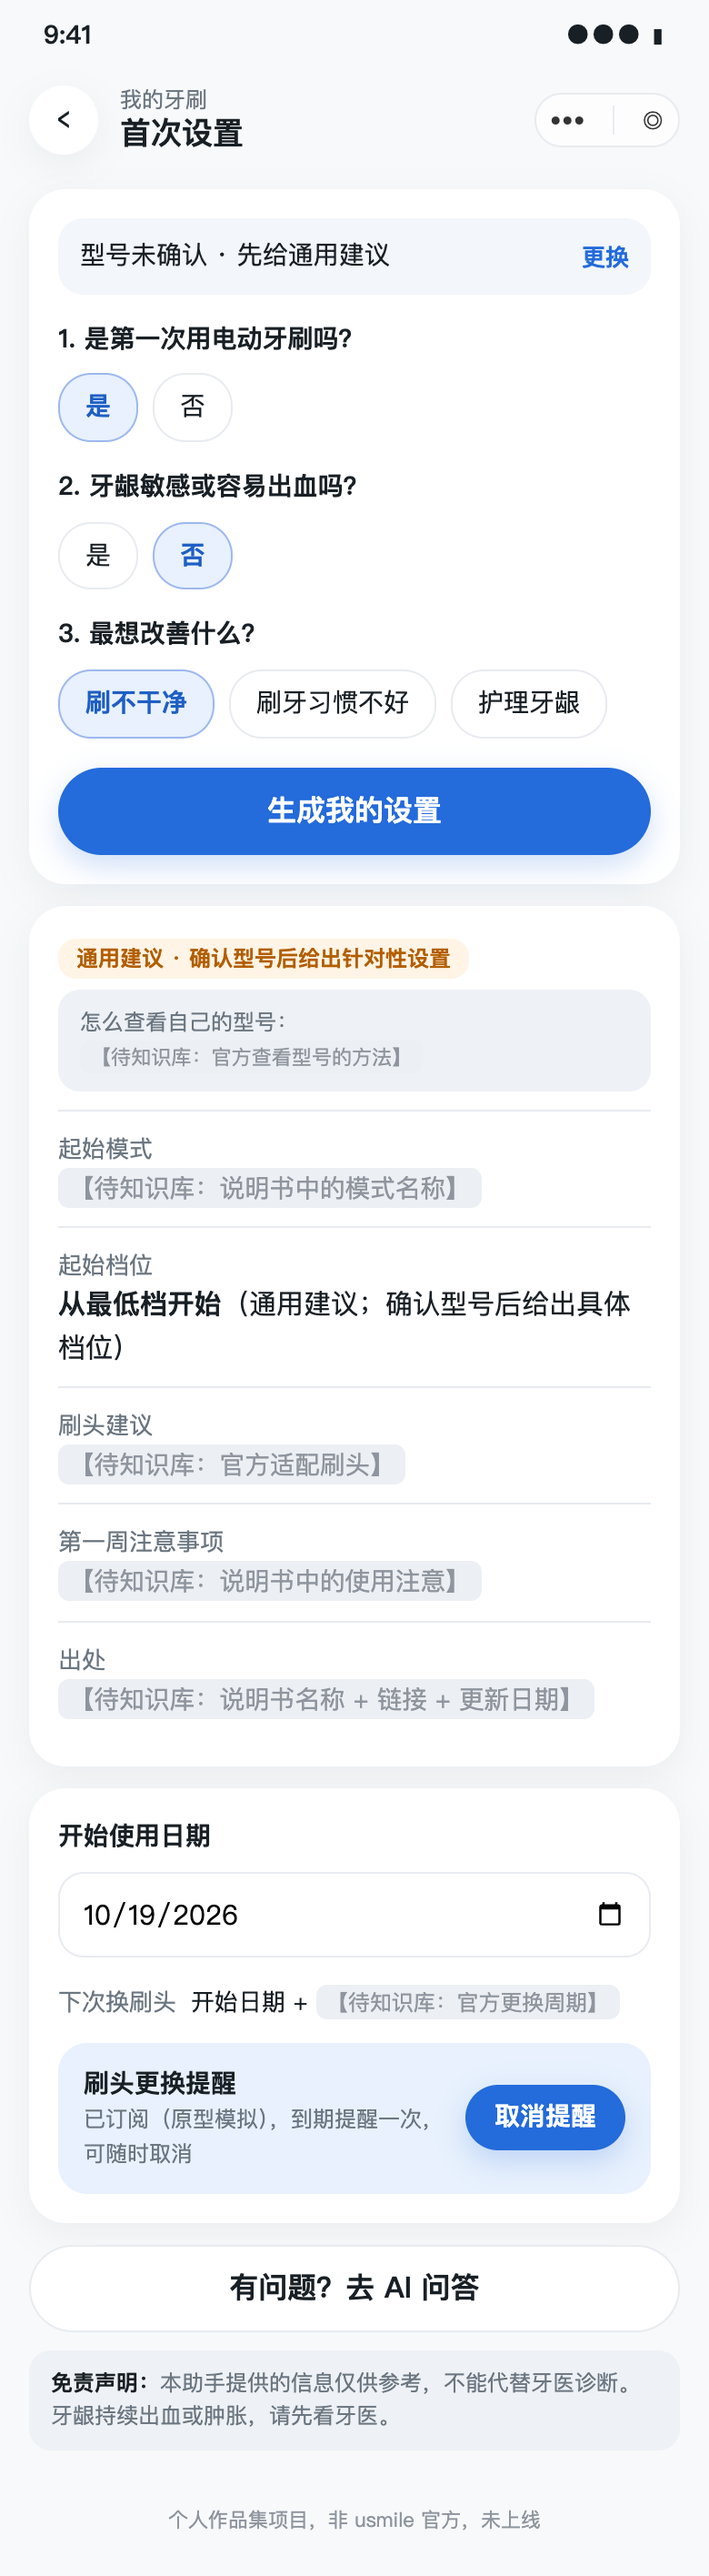
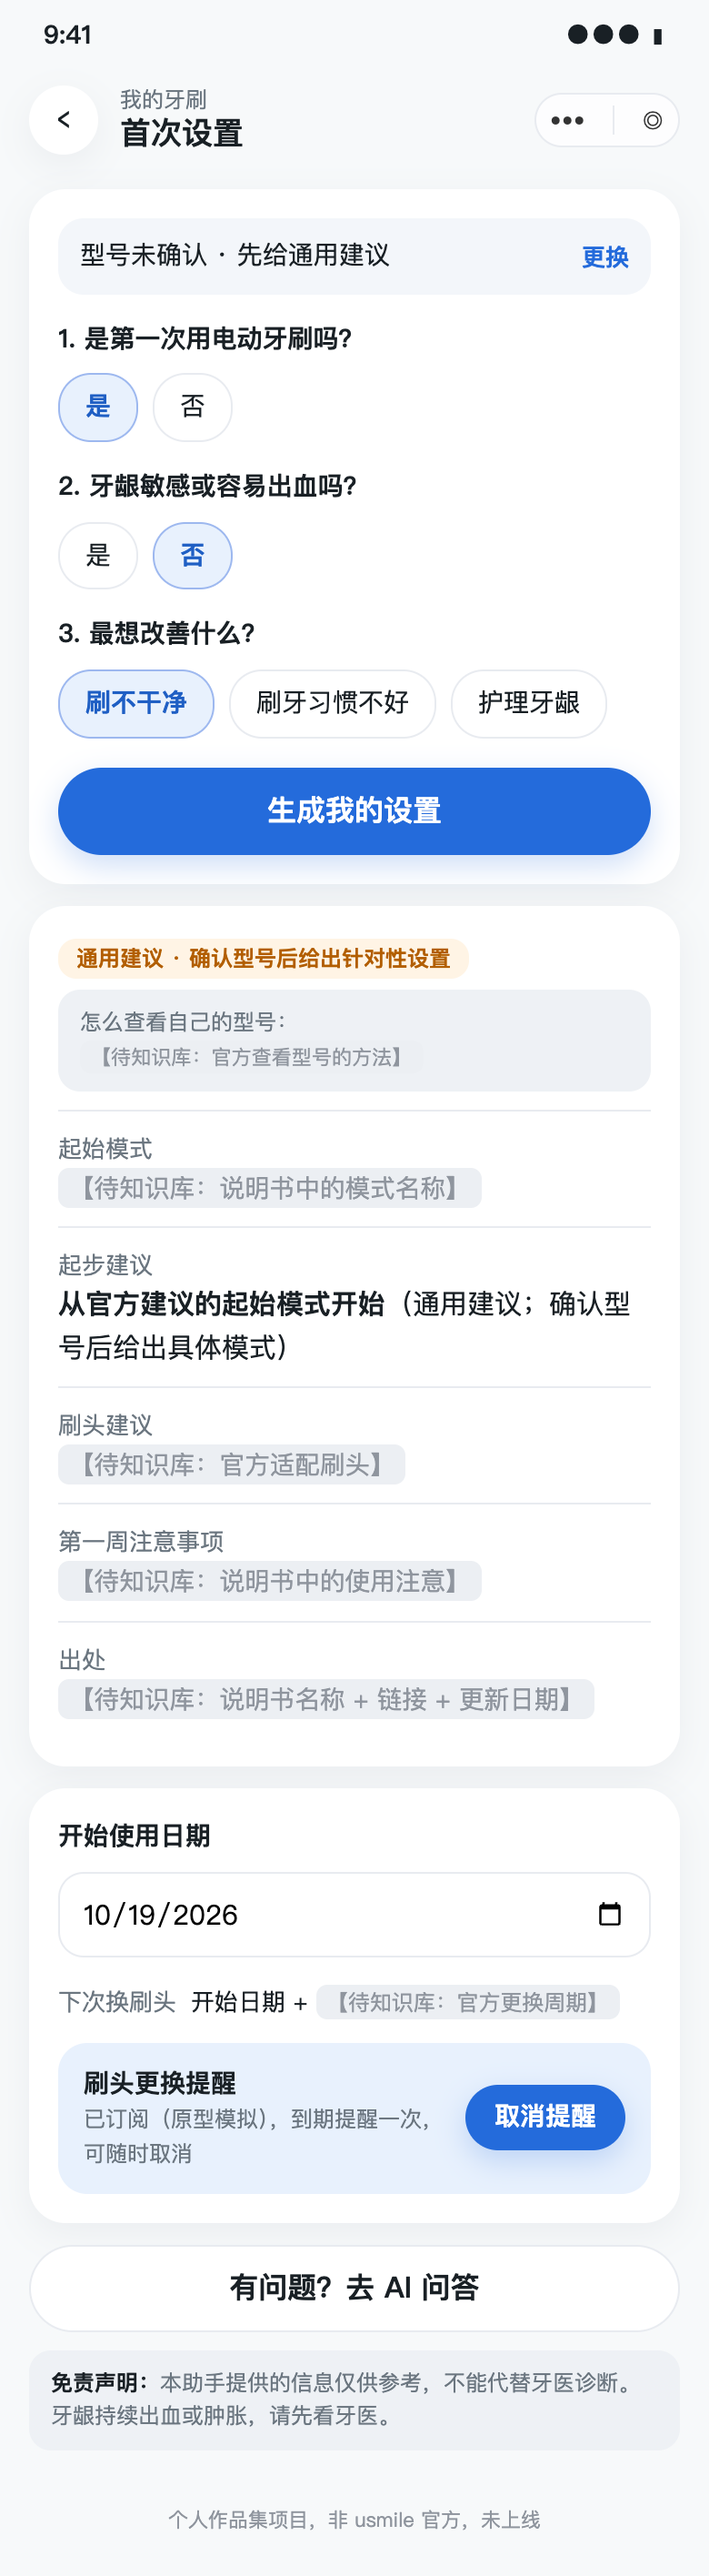
原型同步 D39（4 个价位段且只能选、最低档改为官方起始模式），准备用 GitHub Pages 在线查看；重跑截图

Changed region(s): [[0.0923, 0.4661, 0.8923, 0.5282]]

diff --git a/prototype/index.html b/prototype/index.html
@@ -324,7 +324,7 @@ input[type=date]{padding:10px 12px;border:1.5px solid var(--line);border-radius:
           <button class="btn ghost" id="qPrev">上一题</button>
           <button class="btn" id="qNext">下一题</button>
         </div>
-        <div class="small" id="qReq" style="margin-top:8px;color:var(--warn);display:none">预算为必答题，请先选择或填写</div>
+        <div class="small" id="qReq" style="margin-top:8px;color:var(--warn);display:none">预算为必答题，请先选择</div>
       </div>
       <div class="foot">个人作品集项目，非 usmile 官方，未上线</div>
     </section>
@@ -468,7 +468,7 @@ input[type=date]{padding:10px 12px;border:1.5px solid var(--line);border-radius:
             <div id="generalTag"></div>
             <div id="unsureHelp" class="disclaimer" style="display:none;margin:0 0 10px">怎么查看自己的型号：<span class="ph">【待知识库：官方查看型号的方法】</span></div>
             <div class="item"><div class="k">起始模式</div><div class="ph">【待知识库：说明书中的模式名称】</div></div>
-            <div class="item"><div class="k">起始档位</div><div id="levelText"></div></div>
+            <div class="item"><div class="k">起步建议</div><div id="levelText"></div></div>
             <div class="item"><div class="k">刷头建议</div><div class="ph">【待知识库：官方适配刷头】</div></div>
             <div class="item"><div class="k">第一周注意事项</div><div class="ph">【待知识库：说明书中的使用注意】</div></div>
             <div class="item"><div class="k">出处</div><div class="ph">【待知识库：说明书名称 + 链接 + 更新日期】</div></div>
@@ -624,8 +624,8 @@ input[type=date]{padding:10px 12px;border:1.5px solid var(--line);border-radius:
 
   // ---------- 选购测评（题目与选项以 PRD 2.3.2 为准；前 4 题可自己填写） ----------
   var Q = [
-    {t:'你的预算区间是？', hint:'单选 · 必答 · 价位段按 usmile 官方价格划分', multi:false, req:true,
-     opts:['价位段 1 '+PH('官方价格'), '价位段 2 '+PH('官方价格'), '价位段 3 '+PH('官方价格')], custom:true},
+    {t:'你的预算区间是？', hint:'单选 · 必答 · 价位按 2026-10-18 京东官方自营店标价划分，以购买页面为准', multi:false, req:true,
+     opts:['200 元以下','200–400 元','400–800 元','800 元以上'], custom:false},
     {t:'你的牙齿情况？', hint:'多选', multi:true,
      opts:['牙龈敏感或容易出血','正在正畸','有补牙或牙龈萎缩','有牙渍或烟渍 <span class="tag assume">业务假设</span>','没有特别问题'], none:4, custom:true},
     {t:'最想解决的问题？', hint:'单选', multi:false,
@@ -689,7 +689,7 @@ input[type=date]{padding:10px 12px;border:1.5px solid var(--line);border-radius:
     var sens = ans[1].indexOf(0)>=0, newbie = ans[4][0]===0;
     $('#headType').textContent = sens ? '软毛类 · ' : '';
     var c = '<b>使用注意</b><br>';
-    if(sens || newbie) c += '· 从最低档开始，适应后再调高<br>';
+    if(sens || newbie) c += '· 从官方建议的起始模式开始，适应后再调整<br>';
     if(ans[1].indexOf(1)>=0) c += '· 正畸期间的使用注意 '+PH('权威科普')+'；具体情况请咨询正畸医生<br>';
     c += '· 其他注意事项 '+PH('官方说明书');
     if(sens) c += '<div class="bleed">持续出血请先看牙医</div>';
@@ -743,7 +743,7 @@ input[type=date]{padding:10px 12px;border:1.5px solid var(--line);border-radius:
     $('#generalTag').innerHTML = unsure ? '<span class="general">通用建议 · 确认型号后给出针对性设置</span>' : '<span class="tag hl">按你的型号和回答生成</span>';
     $('#unsureHelp').style.display = unsure ? 'block':'none';
     var low = st.first==='yes' || st.sens==='yes';
-    $('#levelText').innerHTML = low ? (unsure ? '<b>从最低档开始</b>（通用建议；确认型号后给出具体档位）' : '<b>该型号最低档</b>（第一次用或牙龈敏感，先从最低档开始）<br>'+PH('档位名称 + 说明书出处')) : PH('说明书中的推荐档位');
+    $('#levelText').innerHTML = low ? (unsure ? '<b>从官方建议的起始模式开始</b>（通用建议；确认型号后给出具体模式）' : '<b>该型号的官方起始模式</b>（第一次用或牙龈敏感，先从起始模式开始）<br>'+PH('模式名称 + 说明书出处')) : PH('说明书中的推荐档位');
     if(!$('#startDate').value){ var d=new Date(); d.setMinutes(d.getMinutes()-d.getTimezoneOffset()); $('#startDate').value = d.toISOString().slice(0,10); }
   }
   $('#genBtn').onclick = function(){ genSetup(); setTimeout(function(){ $('#setupResult').scrollIntoView({behavior:'smooth'}); },50); };
